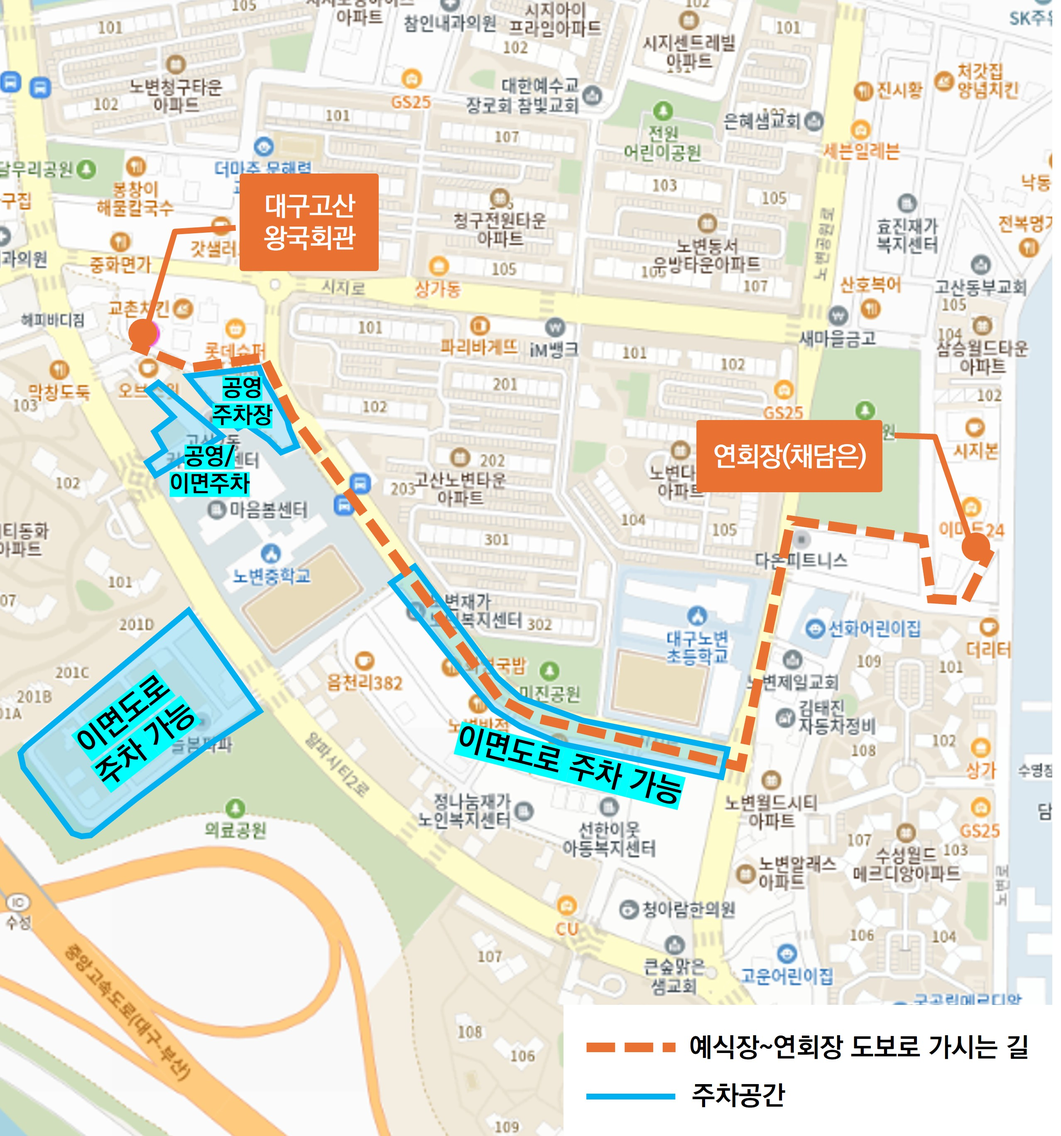
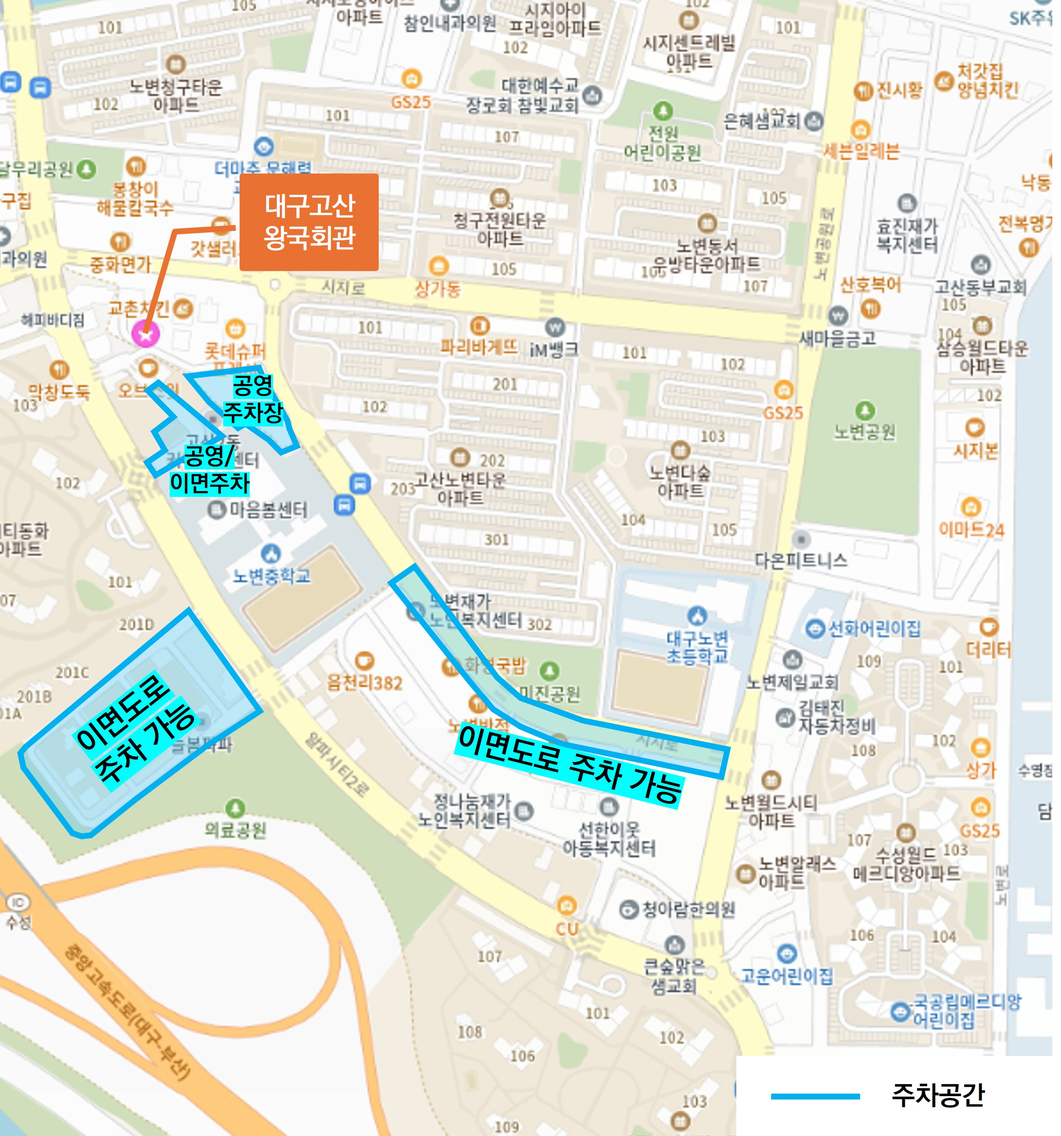
계좌

diff --git a/wedding-invitation/my-wedding_H/index.html b/wedding-invitation/my-wedding_H/index.html
@@ -335,35 +335,21 @@ section{padding:86px 22px;position:relative;text-align:center}
         </div>
     </section>
 
-    <!-- 연회장 Section (새로 추가) -->
-    <section class="reveal" id="reception">
+    <!-- 식사 안내 Section -->
+    <section class="reveal" id="reception-notice">
         <div class="section-kicker">Reception</div>
-        <h2 class="section-title">Dining <em>Hall</em></h2>
-        
-        <div class="info-stack stagger visible" style="margin-top:0; margin-bottom: 22px;">
-            <div class="info-card info-highlight">
-                <div class="info-label">RECEPTION / 식사</div>
-                <div class="info-title">채담은</div>
-                <div class="info-text">
-                    <!-- <span class="time-strong">11:30 ~ 13:30</span><br> -->
-                    대구 수성구 노변로 75-4<br>
-                    <b>※ 초대장을 받으시는 분마다 식당이 다르니 꼭 확인해주세요.</b><br>
-                    <span style="color:#8e625e">※ 축의대는 식당에 비치될 예정입니다.</span>
-                </div>
+        <h2 class="section-title">Dining <em>Notice</em></h2>
+        <div class="info-card info-highlight" style="text-align:center; padding:28px 22px;">
+            <div class="info-label">RECEPTION / 식사 안내</div>
+            <div class="info-title" style="margin-bottom:12px;">식사 장소 안내</div>
+            <div class="info-text" style="line-height:2;">
+                하객 여러분의 편안한 식사를 위해<br>
+                <b>식사 장소는 추후 개별적으로 안내해드릴 예정입니다.</b><br><br>
+                초대장을 받으시는 분에 따라 안내되는 식사 장소가 다를 수 있으니<br>
+                번거로우시겠지만 추후 전달드리는 안내를 꼭 확인해주세요.<br><br>
+                따뜻한 마음으로 함께해주셔서 진심으로 감사드립니다.
             </div>
         </div>
-
-        <div class="map-shell reveal">
-            <div id="map-restaurant" class="map"></div>
-            <div class="map-message" id="map-message-rest">카카오 지도를 불러오는 중입니다.</div>
-            <div class="map-error" id="map-error-rest"></div>
-        </div>
-        <div class="nav-buttons">
-            <a href="https://map.kakao.com/link/search/대구 수성구 노변로 75-4" target="_blank" rel="noopener" class="map-kakao">카카오맵</a>
-            <a href="https://map.naver.com/v5/search/대구 수성구 노변로 75-4" target="_blank" rel="noopener" class="map-naver">네이버지도</a>
-            <a href="tmap://search?name=대구 수성구 노변로 75-4" class="map-tmap">티맵</a>
-        </div>
-        <button class="copy-btn" type="button" onclick="copyText('대구 수성구 노변로 75-4')">주소 복사하기</button>
     </section>
 
     <section class="soft reveal" id="parking">
@@ -530,8 +516,6 @@ const WEDDING = {
     address: '대구광역시 수성구 시지로 50-5',
     lat: 35.840742,
     lng: 128.697415,
-    restaurant: '채담은',
-    restaurantAddress: '대구 수성구 노변로 75-4',
     // restaurantTime: '11:30 ~ 13:30',
     googleScriptUrl: 'https://script.google.com/macros/s/AKfycbxjlQKBXl-EBgAtcPWECsMbHrf-G2-nSg5M7QDt_MjfNMJSsEYAQJQhH67vpG-8PNjF/exec'
 };
@@ -625,23 +609,6 @@ function initKakaoMap(){
                 container.classList.add('loaded'); message.style.display='none';
             });
 
-            // 2. 연회장 지도
-            const containerRest=document.getElementById('map-restaurant');
-            if(containerRest) {
-                const optionRest={center:new kakao.maps.LatLng(35.840, 128.697),level:3}; // 초기 중심 좌표 대략 지정
-                const mapRest=new kakao.maps.Map(containerRest,optionRest);
-
-                geocoder.addressSearch(WEDDING.restaurantAddress,function(result,status){
-                    if(status===kakao.maps.services.Status.OK){
-                        let coordsRest=new kakao.maps.LatLng(result[0].y,result[0].x);
-                        const markerRest=new kakao.maps.Marker({map:mapRest,position:coordsRest});
-                        const infoRest=new kakao.maps.InfoWindow({content:'<div style="width:150px;text-align:center;padding:7px 0;font-size:12px;font-weight:600;color:#333;">채담은</div>'});                     
-                        infoRest.open(mapRest,markerRest); mapRest.setCenter(coordsRest); mapRest.relayout();
-                        containerRest.classList.add('loaded'); 
-                        if(messageRest) messageRest.style.display='none';
-                    }
-                });
-            }
         });
     }catch(e){showMapError('카카오 지도 초기화에 실패했습니다. 서버 업로드 여부를 확인해주세요.');}
 }
@@ -723,7 +690,7 @@ function shareKakao() {
         objectType: 'feed',
         content: {
             title: '김유락 ♥ 김해빈 결혼합니다',
-            description: '2026년 10월 24일 (토) 오후 1:30\n대구고산 왕국회관, 채담은',
+            description: '2026년 10월 24일 (토) 오후 1:30\n대구고산 왕국회관',
             imageUrl: 'https://tozz.kr/wedding-invitation/my-wedding/img/14.jpg', 
             link: {
                 mobileWebUrl: 'https://tozz.kr/wedding-invitation/my-wedding/',
